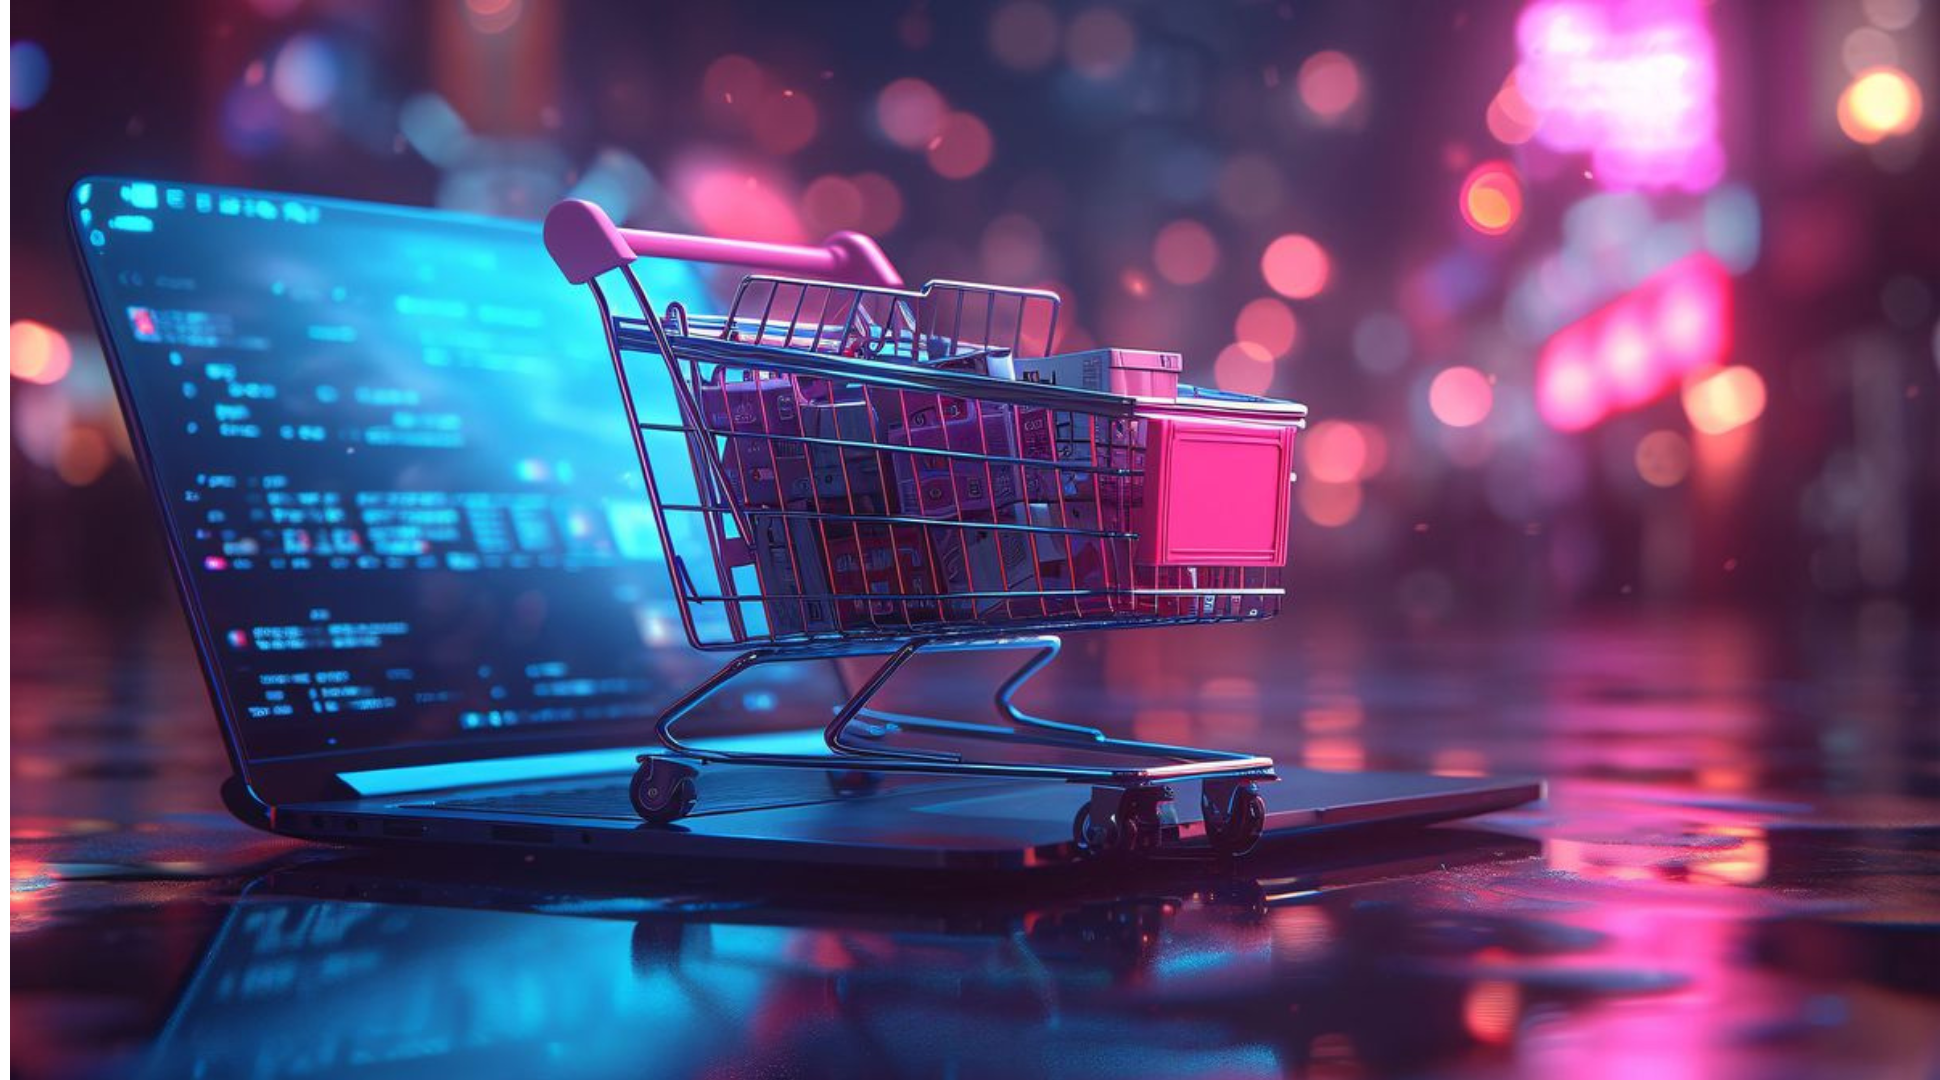
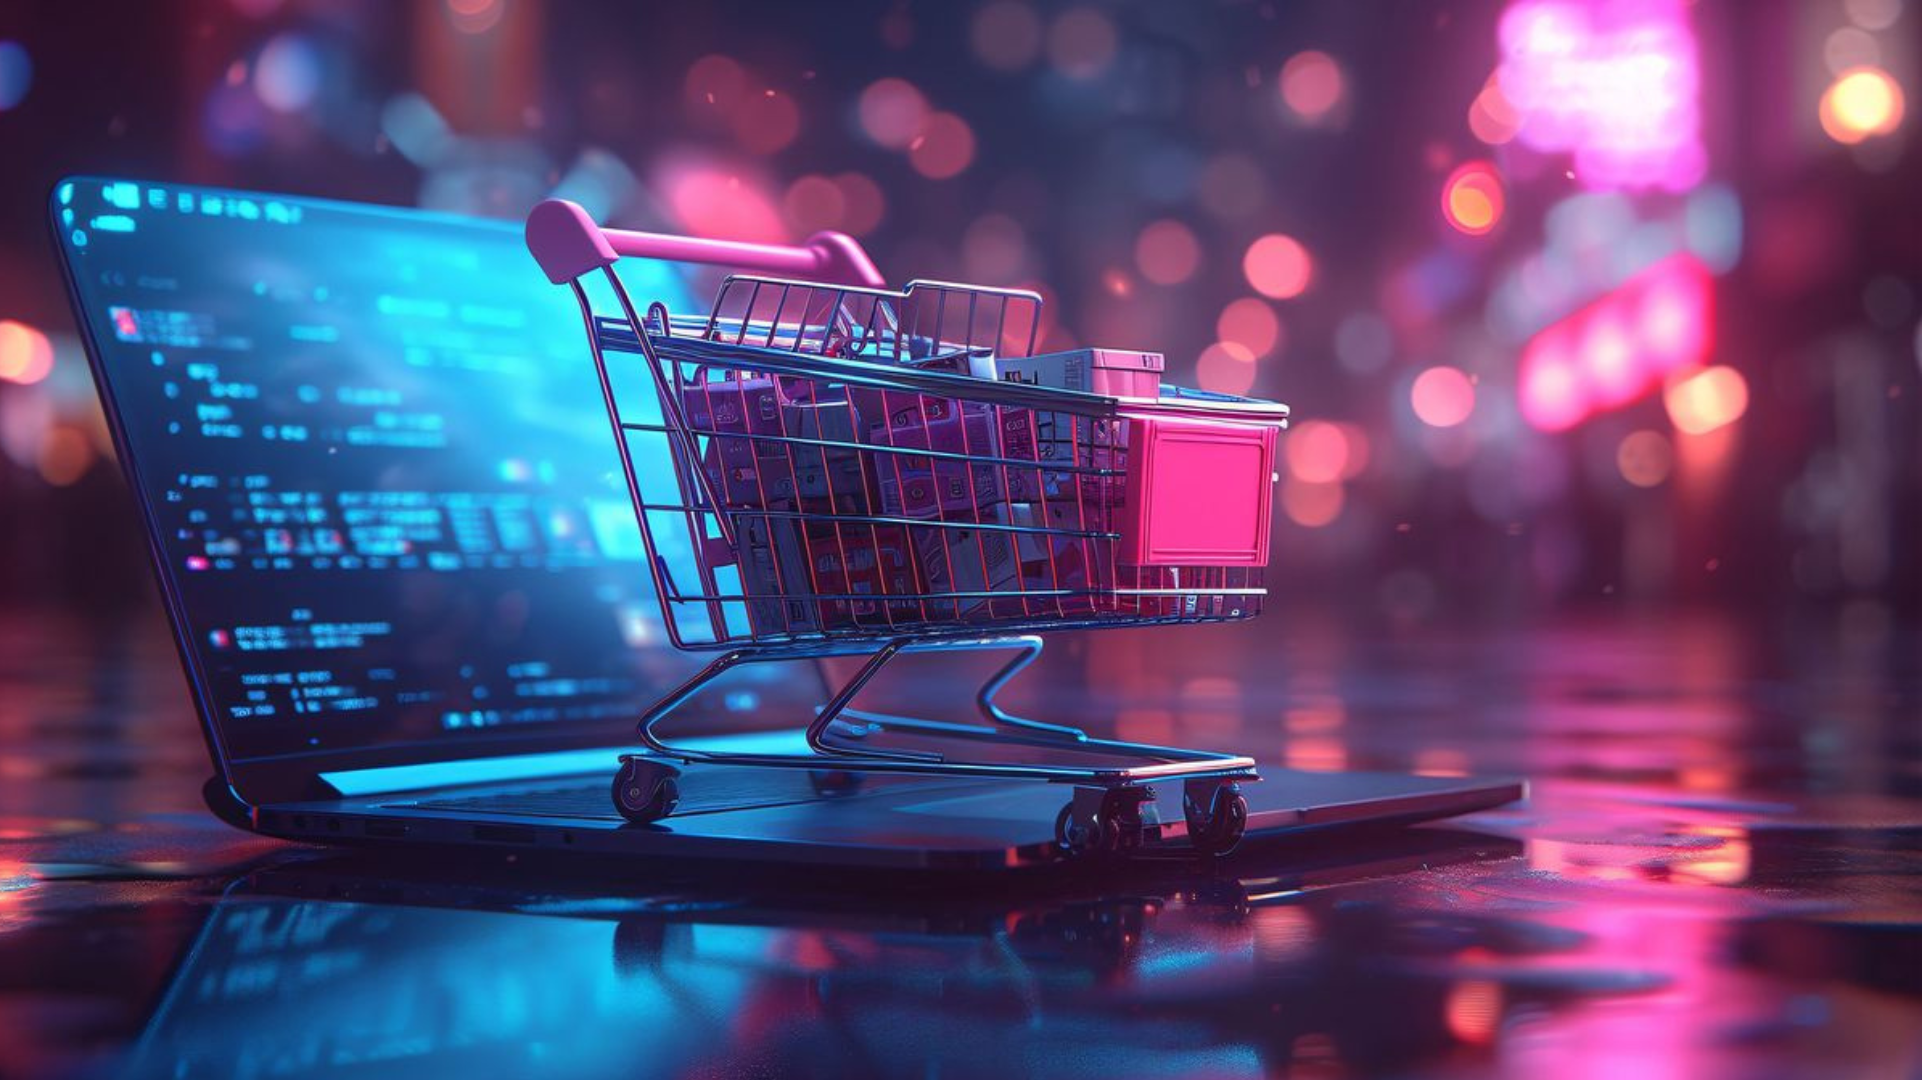
Company Overview

diff --git a/src/components/AboutSection.jsx b/src/components/AboutSection.jsx
@@ -1,46 +1,85 @@
 import React from "react";
 import { assets } from "../assets/assets";
 
-const AboutSection = () => (
-  <div className="min-h-screen flex flex-col md:flex-row relative overflow-hidden">
-    {/* Left Column - Image */}
-    <div className="w-full md:w-1/2 bg-black relative flex items-center justify-center">
-      <img
-        src={assets.overview}
-        alt="Overview"
-        className="w-full h-full object-cover"
-      />
-    </div>
+const AboutSection = () => {
+  const features = [
+    {
+      title: "Results That Speak Louder Than Words",
+      description:
+        "While others give promises, we give results that can be quantified. Our data-driven campaigns not only expose your brand to new audiences but convert them into loyal customers.",
+    },
+    {
+      title: "One-Stop Digital Powerhouse",
+      description:
+        "We merge the diverse industries of startups and enterprises under a single innovative umbrella that caters to various industries. Regardless of your field, we have the knowledge to take your online presence to the next level.",
+    },
+    {
+      title: "Transparency You Can Trust",
+      description:
+        "Every campaign, every click, and every conversion – you will have access to it all. Our detailed reporting system will keep you in the driver's seat of your digital journey.",
+    },
+    {
+      title: "Our Mission",
+      description:
+        "To remake your digital fantasies into realities that dominate the market. We are not a service meant to help you compete; we are the ones that help you lead.",
+    },
+  ];
 
-    {/* Right Column - Text */}
-    <div className="w-full md:w-1/2 flex flex-col justify-center px-6 sm:px-10 md:px-16 py-12 sm:py-16 md:py-20 bg-black">
-      <h2 className="text-3xl sm:text-4xl md:text-5xl lg:text-6xl font-bold text-white mb-6 sm:mb-8 leading-tight">
-        Culture of Excellence, Maestros, At Work & Beyond.
-      </h2>
+  return (
+    <div
+      className="min-h-screen flex flex-col md:flex-row relative overflow-hidden"
+      style={{ background: `url(${assets.patternBg1})` }}
+    >
+      {/* Left Column - Image */}
+      <div className="w-full md:w-1/2 bg-black relative flex items-center justify-center">
+        <img
+          src={assets.companyOverview2}
+          alt="Overview"
+          className="w-full h-full object-cover opacity-80"
+        />
+      </div>
 
-      <div className="space-y-4 sm:space-y-6">
-        <p className="text-white text-base sm:text-lg md:text-xl leading-relaxed">
-          Experion Technologies, founded in 2006, is a Global Product
-          Engineering Services and Digital Transformation Services company
-          offering enterprises future-ready and transformative digital
-          solutions. The organization's product engineering maestros work out of
-          3 development centers in India – Trivandrum, Kochi, and Bangalore, and
-          5 global offices across Europe, Asia-Pacific, and North America.
+      {/* Right Column - Text */}
+      <div className="w-full md:w-1/2 flex flex-col justify-center px-6 sm:px-10 md:px-16 py-12 sm:py-16 md:py-20 bg-black relative">
+        <h2 className="text-3xl sm:text-4xl md:text-5xl font-bold text-white mb-6 sm:mb-8 leading-tight">
+          Who We Are
+        </h2>
+
+        <p className="text-white text-base sm:text-lg md:text-xl leading-relaxed mb-12">
+          We are the digital strategists, creatives, and growth hackers who are
+          passionate about and are successful in the digital world. We are like
+          your digital co-pilots that will help you maneuver through the
+          ever-changing world of the internet and get your brand exactly at the
+          place that it deserves.
         </p>
-        <p className="text-white text-base sm:text-lg md:text-xl leading-relaxed">
-          Experion has been recognized multiple times by Frost and Sullivan,
-          Clutch, Inc. 5000, and Everest Group for core expertise in Digital and
-          Software Product Engineering services. Experion brings expertise in
-          the latest technology while crafting exceptional product experiences,
-          utilizing Data and AI, Cognitive Computing, DevSecOps, and Experience
-          Design capabilities across domains. The organization drives new
-          revenue streams, digitizes business processes, and helps improve
-          operational efficiency and productivity in the Healthcare, Retail,
-          Transport and Logistics, BFSI, Construction.
-        </p>
+
+        <h2 className="text-3xl sm:text-4xl md:text-5xl font-bold text-white mb-6 sm:mb-8 leading-tight">
+          What Makes Us Different
+        </h2>
+
+        {/* Glass Cards Section */}
+        <div className="grid grid-cols-1 sm:grid-cols-2 gap-6 md:gap-8">
+          {features.map((feature, index) => (
+            <div
+              key={index}
+              className="group relative p-6 rounded-2xl bg-white/10 backdrop-blur-lg border border-white/20 
+              hover:border-blue-400/60 hover:bg-white/20 hover:shadow-lg hover:shadow-blue-500/20 
+              transition-all duration-500"
+            >
+              <div className="absolute inset-0 bg-gradient-to-br from-blue-500/10 to-purple-500/10 rounded-2xl opacity-0 group-hover:opacity-100 transition-opacity duration-500"></div>
+
+              <h3 className="relative text-xl sm:text-2xl font-semibold text-white mb-3">
+                {feature.title}
+              </h3>
+              <p className="relative text-gray-200 text-base sm:text-lg leading-relaxed">
+                {feature.description}
+              </p>
+            </div>
+          ))}
+        </div>
       </div>
     </div>
-  </div>
-);
+  );
+};
 
 export default AboutSection;

diff --git a/src/components/ScrollRevealEffect.jsx b/src/components/ScrollRevealEffect.jsx
@@ -96,7 +96,7 @@ export default function ScrollRevealEffect() {
       bg: "transparent",
       text: "Form",
       style: {
-        backgroundImage: `url(${assets.bg1})`,
+        backgroundImage: `url(${assets.letsTalk})`,
         backgroundSize: "cover",
         backgroundPosition: "center",
       },
@@ -133,33 +133,6 @@ export default function ScrollRevealEffect() {
                 style={{
                   background:
                     "linear-gradient(to top, var(--tw-bg-opacity,1) currentColor, transparent)",
-                }}
-              ></div>
-            </>
-          )}
-
-          {section.style?.backgroundImage && (
-            <>
-              <div
-                className="absolute -top-20 left-0 w-full h-40 pointer-events-none"
-                style={{
-                  backgroundImage: section.style.backgroundImage,
-                  backgroundSize: section.style.backgroundSize,
-                  backgroundPosition: section.style.backgroundPosition,
-                  WebkitMaskImage:
-                    "linear-gradient(to bottom, black, transparent)",
-                  maskImage: "linear-gradient(to bottom, black, transparent)",
-                }}
-              ></div>
-              <div
-                className="absolute -bottom-20 left-0 w-full h-40 pointer-events-none"
-                style={{
-                  backgroundImage: section.style.backgroundImage,
-                  backgroundSize: section.style.backgroundSize,
-                  backgroundPosition: section.style.backgroundPosition,
-                  WebkitMaskImage:
-                    "linear-gradient(to top, black, transparent)",
-                  maskImage: "linear-gradient(to top, black, transparent)",
                 }}
               ></div>
             </>

diff --git a/src/assets/assets.js b/src/assets/assets.js
@@ -338,7 +338,7 @@ import banking19 from "./banking19.png";
 import banking20 from "./banking20.png";
 import educationBanner1 from "./educationBanner1.jpg";
 import educationBanner2 from "./educationBanner2.jpg";
-import educationBanner3 from "./educationBanner3.jpg";
+import educationBanner3 from "./educationBanner3.png";
 import education1 from "./education1.jpg";
 import education2 from "./education2.png";
 import education3 from "./education3.png";
@@ -708,6 +708,8 @@ import cpg10 from "./cpg10.png";
 import cpg11 from "./cpg11.png";
 import cpg12 from "./cpg12.png";
 import cpg13 from "./cpg13.png";
+import letsTalk from "./letsTalk.jpg";
+import companyOverview2 from "./companyOverview2.png";
 
 export const assets = {
   homepageCapyngenNews,
@@ -1420,6 +1422,8 @@ export const assets = {
   cpg11,
   cpg12,
   cpg13,
+  letsTalk,
+  companyOverview2,
 };
 
 export const navItems = [

diff --git a/src/pages/CompanyOverview.jsx b/src/pages/CompanyOverview.jsx
@@ -28,10 +28,21 @@ const CompanyOverview = () => {
   return (
     <div>
       <Banner
-        title="Company Overview"
+        title="About Capyngen"
         overlayBg="bg-black/70"
         backgroundImage={assets.companyOverview}
-        description="Unlock the Power of App Presence with our Professional Appsite Designing Service! Elevate Your Online Presence with Stunning Appsite Designs."
+        description={
+          <>
+            <h2 className="pb-10 text-3xl md:text-5xl font-extrabold">
+              Your Success Story Starts Here
+            </h2>
+            <p>
+              At Capyngen, we don't merely sell digital marketing, we create
+              digital experiences that have a practical impact on businesses and
+              attract new clients.
+            </p>
+          </>
+        }
       />
       <AboutSection />
       <OurValues />

diff --git a/src/components/BestHeading2.jsx b/src/components/BestHeading2.jsx
@@ -6,7 +6,7 @@ export default function BestHeading2({ highlight = "Work" }) {
       <div className="md:leading-34 tracking-wider max-w-full pb-4 inline-grid">
         {/* Shadow Layer */}
         <h1
-          className="col-start-1 row-start-1 text-gray-400 font-extrabold 
+          className="col-start-1 row-start-1 text-gray-900 font-extrabold 
           text-[clamp(2.5rem,10vw,7rem)] z-0 translate-x-[3px] translate-y-[3px]
           md:translate-x-[6px] md:translate-y-[6px]"
           style={{ transform: "scaleX(0.9)" }}

diff --git a/src/pages/Homepage.jsx b/src/pages/Homepage.jsx
@@ -248,7 +248,7 @@ const Homepage = () => {
         <div className="py-10 bg-gradient-to-b from-[#708090]/90 to-[#000]/90 [&>*]:!mt-0 [&>*]:!mb-0">
           <FAQSection2 items={faqItems} bgColor="bg-transparent" />
         </div>
-        <div className="py-10 bg-gradient-to-b from-[#000]/90 to-[#000]/90 [&>*]:!mt-0 [&>*]:!mb-0">
+        <div className="pt-10 bg-gradient-to-b from-[#000]/90 to-[#000]/90 [&>*]:!mt-0 [&>*]:!mb-0">
           <ScrollRevealEffect />
         </div>
       </div>
